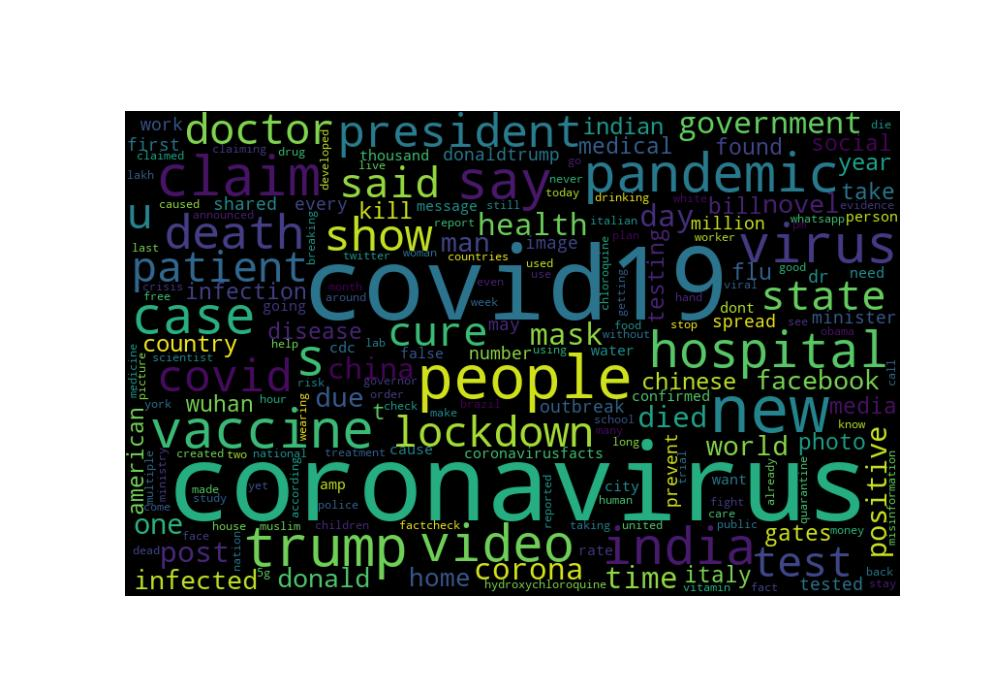
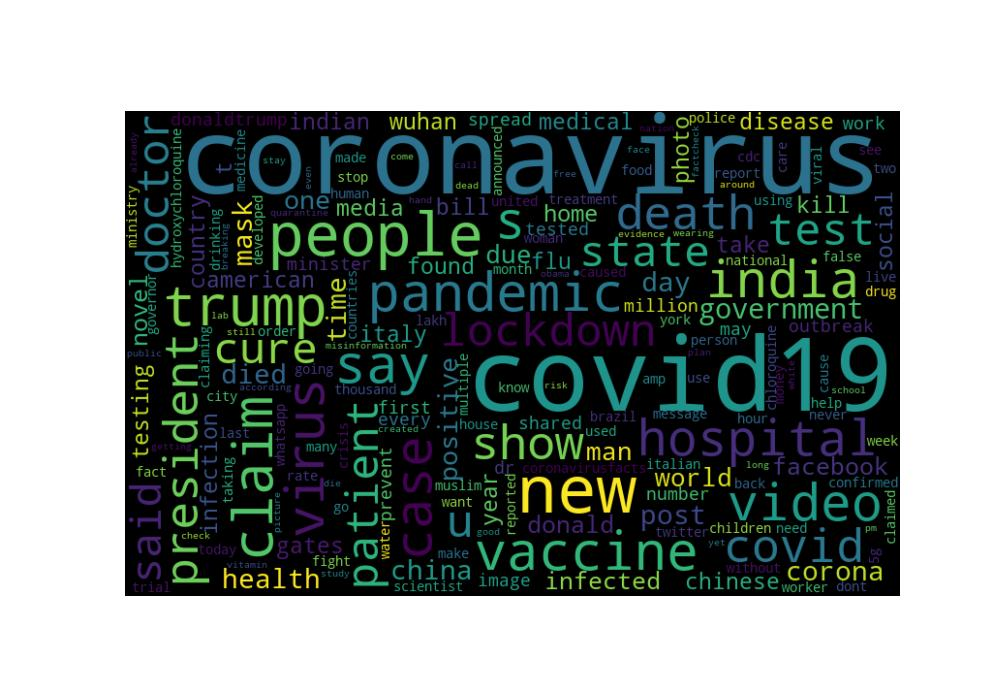
Hotfix frontend-img

Changed region(s): [[0.124, 0.15, 0.899, 0.87]]

diff --git a/Flask_App/machLearn.py b/Flask_App/machLearn.py
@@ -377,7 +377,8 @@ def randomForest(x_train, x_test, y_train, y_test):
 #####  Main Program  #####
 def Main(InputArray):
     # Dataset source
-    dataFile = './kaggle-covid-news.csv'
+    #dataFile = './kaggle-covid-news.csv'
+    dataFile = './general-news.csv'
 
     # Load and read dataset
     data = read(dataFile)
